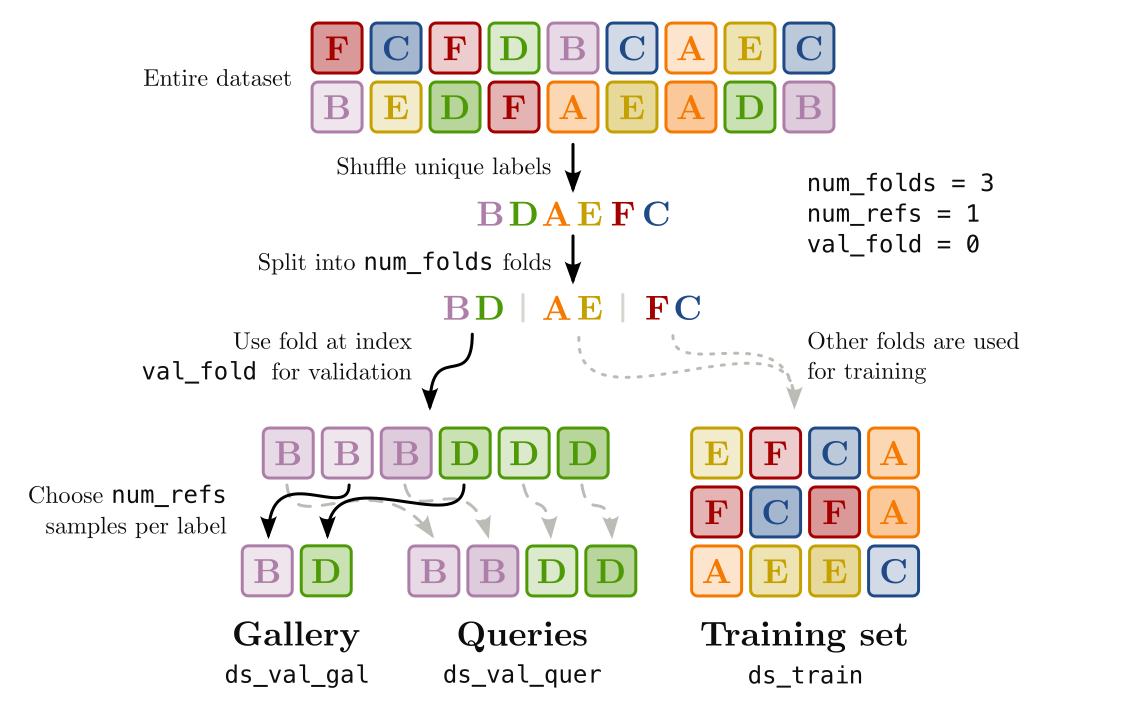
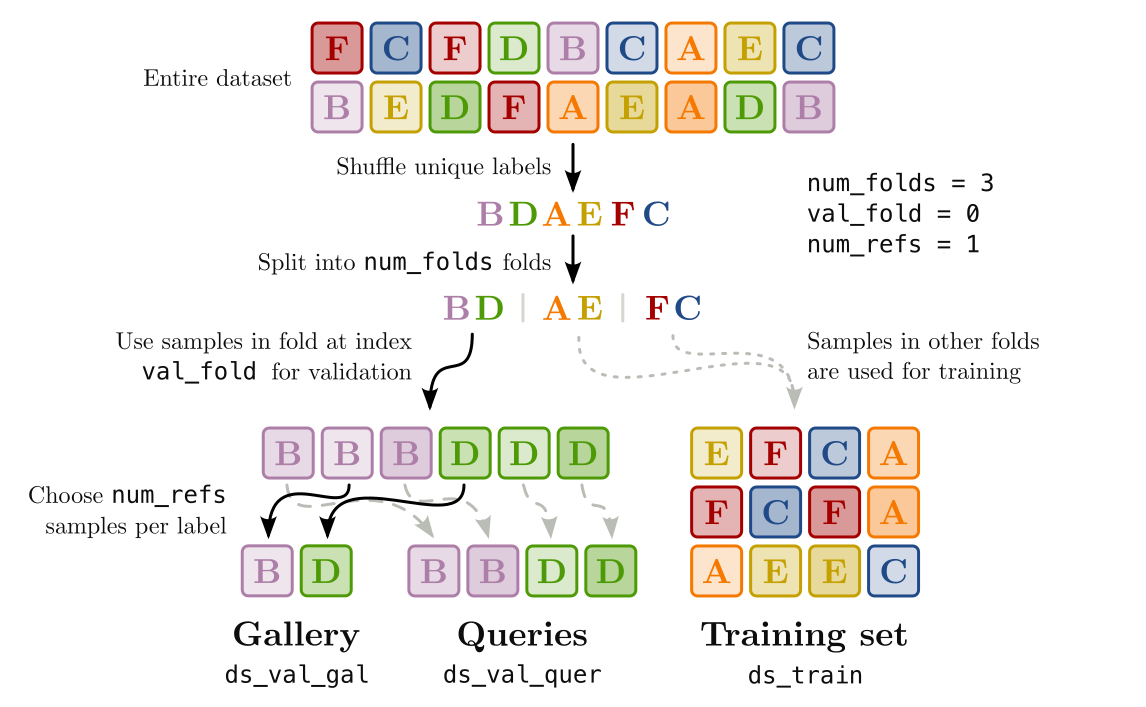
Update getting started

Changed region(s): [[0.7024, 0.4668, 0.9162, 0.5601], [0.7024, 0.2801, 0.8551, 0.3734], [0.0916, 0.4668, 0.2443, 0.4979]]

diff --git a/inid/eval/score_matrix.py b/inid/eval/score_matrix.py
@@ -51,8 +51,8 @@ def score_matrix(
             It should take two arguments: the model and the image batch.
 
     Returns:
-        The score matrix, the labels of the queries (rows) and the labels of
-        the gallery items (columns).
+        The score matrix, the labels of the gallery items (columns) and the
+        labels of the queries (rows).
     """
     assert not model.training
     model = model.to(device)
@@ -60,15 +60,9 @@ def score_matrix(
     gal_embeddings = []
     gal_labels = []
     for imgs, labels in tqdm(dl_gal, leave=False):
-        imgs = imgs.to(device)
-        labels = labels.to(device)
-        if get_embeddings_fn is None:
-            out = model(imgs)
-        else:
-            out = get_embeddings_fn(model, imgs)
-        assert len(labels) == len(out)
-        gal_embeddings.append(out)
-        gal_labels.append(labels)
+        _compute_and_append_embeddings(model, imgs, labels, device,
+                                       gal_embeddings, gal_labels,
+                                       get_embeddings_fn)
     gal_embeddings = torch.cat(gal_embeddings)
     gal_labels = torch.cat(gal_labels)
 
@@ -78,18 +72,35 @@ def score_matrix(
     scores = []
     quer_labels = []
     for imgs, labels in tqdm(dl_quer, leave=False):
-        imgs = imgs.to(device)
-        labels = labels.to(device)
-        if get_embeddings_fn is None:
-            q_embs = model(imgs)
-        else:
-            q_embs = get_embeddings_fn(model, imgs)
-        scores.append(torch.matmul(q_embs, gal_embeddings.T))
-        quer_labels.append(labels)
+        q_embs = []
+        _compute_and_append_embeddings(model, imgs, labels, device,
+                                       q_embs, quer_labels,
+                                       get_embeddings_fn)
+        scores.append(torch.matmul(q_embs[0], gal_embeddings.T))
     scores = torch.cat(scores)
     quer_labels = torch.cat(quer_labels)
 
-    return scores, quer_labels, gal_labels
+    return scores, gal_labels, quer_labels
+
+
+def _compute_and_append_embeddings(
+    model,
+    imgs,
+    labels,
+    device,
+    embedding_list,
+    label_list,
+    get_embeddings_fn,
+):
+    imgs = imgs.to(device)
+    labels = labels.to(device)
+    if get_embeddings_fn is None:
+        out = model(imgs)
+    else:
+        out = get_embeddings_fn(model, imgs)
+        assert len(labels) == len(out)
+        embedding_list.append(out)
+        label_list.append(labels)
 
 
 def sort_scores(

diff --git a/tests/eval/test_accuracy.py b/tests/eval/test_accuracy.py
@@ -23,7 +23,7 @@ def test_perfect_accuracy():
         0, 1, 2, 3
     ])
     exp_acc = 1.0
-    ret_acc = accuracy(scores, query_labels, gallery_labels)
+    ret_acc = accuracy(scores, gallery_labels, query_labels)
     assert exp_acc == ret_acc
 
 
@@ -48,7 +48,7 @@ def test_worst_accuracy():
         0, 1, 2, 3
     ])
     exp_acc = 0.0
-    ret_acc = accuracy(scores, query_labels, gallery_labels)
+    ret_acc = accuracy(scores, gallery_labels, query_labels)
     assert exp_acc == ret_acc
 
 
@@ -73,7 +73,7 @@ def test_midway_accuracy():
         0, 1, 2, 3
     ])
     exp_acc = 0.5
-    ret_acc = accuracy(scores, query_labels, gallery_labels)
+    ret_acc = accuracy(scores, gallery_labels, query_labels)
     assert exp_acc == ret_acc
 
 
@@ -98,5 +98,5 @@ def test_perfect_top_2_accuracy():
         0, 1, 2, 3
     ])
     exp_acc = 1.0
-    ret_acc = top_k_accuracy(scores, query_labels, gallery_labels, k=2)
+    ret_acc = top_k_accuracy(scores, gallery_labels, query_labels, k=2)
     assert exp_acc == ret_acc

diff --git a/inid/eval/pr_metrics.py b/inid/eval/pr_metrics.py
@@ -6,17 +6,17 @@ from torch import Tensor
 
 def pr_metrics(
     scores: Tensor,
-    query_labels: Tensor,
-    gallery_labels: Tensor
+    gallery_labels: Tensor,
+    query_labels: Tensor
 ) -> Dict[str, Union[List[Tensor], Tensor]]:
     """Computes the precision-recall curves and related metrics.
 
     Args:
         scores: The scores for each query (rows) and each gallery item
             (columns).
-        query_labels: The true label of each query (rows of ``scores``).
         gallery_labels: The labels of the items in the gallery (columns of
             ``scores``).
+        query_labels: The true label of each query (rows of ``scores``).
 
     Returns:
         A dictionary containing the metrics. The dict contains the following

diff --git a/inid/eval/accuracy.py b/inid/eval/accuracy.py
@@ -6,8 +6,8 @@ from .knn import top_k
 
 def accuracy(
     scores: Tensor,
-    query_labels: Tensor,
-    gallery_labels: Tensor
+    gallery_labels: Tensor,
+    query_labels: Tensor
 ) -> Tensor:
     """Computes the top-1 accuracy.
 
@@ -29,8 +29,8 @@ def accuracy(
 
 def top_k_accuracy(
     scores: Tensor,
-    query_labels: Tensor,
     gallery_labels: Tensor,
+    query_labels: Tensor,
     k: int
 ):
     """Computes the top-k accuracy.

diff --git a/tests/eval/test_pr_metrics.py b/tests/eval/test_pr_metrics.py
@@ -53,7 +53,7 @@ def test_best_pr_metrics():
         ]),
     }
 
-    ret = pr_metrics(scores, query_labels, gallery_labels)
+    ret = pr_metrics(scores, gallery_labels, query_labels)
     _assert_equal(exp, ret)
 
 
@@ -107,7 +107,7 @@ def test_bad_pr_metrics():
         ]),
     }
 
-    ret = pr_metrics(scores, query_labels, gallery_labels)
+    ret = pr_metrics(scores, gallery_labels, query_labels)
     _assert_equal(exp, ret)
 
 

diff --git a/tests/eval/test_hard_pos_neg_scores.py b/tests/eval/test_hard_pos_neg_scores.py
@@ -19,6 +19,6 @@ def test_hard_pos_neg_scores():
         'HardPosScores': torch.tensor([0.1, 0.3]),
         'HardNegScores': torch.tensor([0.2, 0.4]),
     }
-    ret = hard_pos_neg_scores(scores, query_labels, gallery_labels)
+    ret = hard_pos_neg_scores(scores, gallery_labels, query_labels)
     assert all(exp['HardPosScores'] == ret['HardPosScores'])
     assert all(exp['HardNegScores'] == ret['HardNegScores'])

diff --git a/tests/eval/test_score_matrix.py b/tests/eval/test_score_matrix.py
@@ -32,7 +32,7 @@ def test_get_score_matrix():
     model = torch.nn.Identity()
     model.eval()
 
-    ret_scores, ret_q_labels, ret_g_labels = get_score_matrix(
+    ret_scores, ret_g_labels, ret_q_labels = get_score_matrix(
         model,
         device='cpu',
         dl_gal=dl_gal,

diff --git a/inid/eval/hard_pos_neg_scores.py b/inid/eval/hard_pos_neg_scores.py
@@ -7,8 +7,8 @@ import math
 
 def hard_pos_neg_scores(
     scores: Tensor,
-    query_labels: Tensor,
     gallery_labels: Tensor,
+    query_labels: Tensor,
 ) -> Dict[str, Tensor]:
     """
     Computes the similarity scores between each query and the hardest negative

diff --git a/docs/guide/01-getting_started.md b/docs/guide/01-getting_started.md
@@ -27,9 +27,9 @@ It is entirely up to you how you structure your data and how you name the image 
 Let's say you have written your CSV file to `my_data.csv`. Then you can create training and validation datasets as follows:
 
 ```python
-from inid.data import get_train_val_datasets
+from inid.data import train_val_datasets
 
-ds_train, ds_val_gal, ds_val_quer = get_train_val_datasets(
+ds_train, ds_val_gal, ds_val_quer = train_val_datasets(
     'my_data.csv',      # Path to your CSV file
     label_key='label',  # The column containing the labels
     image_key='image',  # The column containing the image paths
@@ -38,8 +38,11 @@ ds_train, ds_val_gal, ds_val_quer = get_train_val_datasets(
     val_fold=0,         # Which fold to use as validation set
     fold_seed=42,       # The random seed for choosing the folds
 
-    num_refs=2,           # The number of references used in the gallery
+    num_refs=2,         # The number of references used in the gallery
     ref_seed=42,        # The random seed for selecting the references
+
+    tfm_train=None,     # The transformation pipeline for the training set
+    tfm_val=None,       # The transformation pipeline for the validation sets
 )
 ```
 
@@ -47,7 +50,8 @@ There are a couple of things going on here. Let's break them down:
 
 - The first three arguments are related to the CSV file that describes your dataset. You provide the path to the CSV file and the names of the columns that give the image paths and their corresponding labels.
 - The following three arguments (`num_folds`, `val_fold` and `fold_seed`) determine which data will be put in the training set and which data will be put in the validation set. InID shuffles the set of labels present in your dataset and divides them into `num_fold` approximately equal folds. With `val_fold`, you can choose which of these folds should be used for the validation dataset, and with `fold_seed` you can change the shuffling result. By fixing `num_folds` and `fold_seed` and letting `val_fold` range from `0` to `num_folds - 1`, you can easily perform K-fold cross validation. Read more about it [here](./03-kfold_cross_val). Note that different folds not only contain different samples, but also different *labels*. This is to reflect the ultimate goal of a recognition model, i.e., to recognize classes that were not used during training.
-- The final two arguments (`num_refs` and `ref_seed`) define how the validation samples are distributed among the gallery validation dataset (`ds_val_gal`) and the query validation dataset (`ds_val_quer`). During validation, the samples in the gallery are used as *references* for the respective classes and the query samples are compared with each of these references. From the resulting similarity scores, the model performance can be evaluated. For the gallery set, InID randomly selects `num_refs` samples (seeded by `ref_seed`) for each label in the validation dataset. The other samples are put into the query set.
+- The next two arguments (`num_refs` and `ref_seed`) define how the validation samples are distributed among the gallery validation dataset (`ds_val_gal`) and the query validation dataset (`ds_val_quer`). During validation, the samples in the gallery are used as *references* for the respective classes and the query samples are compared with each of these references. From the resulting similarity scores, the model performance can be evaluated. For the gallery set, InID randomly selects `num_refs` samples (seeded by `ref_seed`) for each label in the validation dataset. The other samples are put into the query set.
+- With the final arguments (`tfm_train` and `tfm_val`), you can pass in the image transformation pipeline to use for the training and the validation data, respectively. This could, for example, be a pipeline built with [TorchVision transforms](https://pytorch.org/vision/stable/transforms.html), but any other callable that takes in a single PIL Image and returns the transformed version should work fine. When the transforms are set to `None` (the default), no transforms will be applied to the images.
 
 The process of splitting the dataset is illustrated in the figure below. Each square represents a sample in the dataset and the letters indicate the class label.
 
@@ -79,7 +83,7 @@ The :class:`Recognizer<inid.model.Recognizer>` class implements the previously d
 ```python
 from inid.model import Recognizer
 
-model = Recognizer(
+recog_model = Recognizer(
     model_name='resnet50',
     num_classes=len(ds_train.unique_labels),
     weights='DEFAULT',
@@ -91,16 +95,96 @@ Let's discuss the arguments:
 
 ```{eval-rst}
 - With ``model_name``, you choose the architecture on which the :class:`Recognizer<inid.model.Recognizer>` should be based. **We support about 80 different architectures** from the `models implemented in TorchVision <https://pytorch.org/vision/main/models.html>`_: classics like AlexNet, GoogLeNet, VGG, Inception, ResNet, but also more recent models like ResNeXt, EfficientNet, and even transformer-based models like ViT and SwinTransformer. For a full list of the supported architectures, see :const:`inid.model.SUPPORTED_MODELS`.
-- ``num_classes`` tells the model how much output neurons the classifier (used for training) should have. If you created a training dataset ``ds_train`` with :func:`inid.data.get_train_val_datasets`, as we did above, you can just pass in ``len(ds_train.unique_labels)``.
+- ``num_classes`` tells the model how much output neurons the classifier (used for training) should have. If you created a training dataset ``ds_train`` with :func:`inid.data.train_val_datasets`, as we did above, you can just pass in ``len(ds_train.unique_labels)``.
 - With the ``weights`` argument, you define the pretrained weights to load into the model, if any. This can be any of the weights defined for your chosen model in the `Multi-weight support API <https://pytorch.org/blog/introducing-torchvision-new-multi-weight-support-api/>`_ of TorchVision.
 - Finally, with the ``bias`` argument, you can choose to turn on the bias. We suggest to keep it off, however (the default).
 ```
 
 ## Evaluating predictions
 
+With the training dataset and the model defined, we can go ahead and start training. InID is unopinionated on how you wish to train your model. Whether you like to write your own training loop in plain PyTorch or prefer to wrap everything with a framework like [PyTorch Lightning](https://lightning.ai/docs/pytorch/latest): that's up to you!
+
+
+```{eval-rst}
+Whatever training methodology you choose, at some point, you'll want to measure how well your model performs on data outside of the training set. For this, InID provides multiple utilities. We have already seen the first one, i.e., :func:`inid.data.train_val_datasets`, which returns not only a training dataset, but also a *gallery* and a *query* set that can be used for evaluation. The idea is that we classify the query samples by comparing their embeddings with the embeddings the model computes for the gallery samples.
+
+The classification of the query samples happens by computing a pairwise cosine similarity matrix between each query embedding and each gallery embedding. To do this, you can use the function :func:`inid.eval.score_matrix`.
+
+To save runtime, :func:`inid.eval.score_matrix` expects a `PyTorch DataLoader <https://pytorch.org/docs/stable/data.html>`_ for both the gallery and the query datasets. So, somewhere in your code, you'll first need to do something like:
+```
+
+```python
+from torch.utils.data import DataLoader
+
+dl_val_gal = DataLoader(
+    ds_val_gal,
+    batch_size=32,
+    shuffle=False,
+    num_workers=8
+)
+
+dl_val_quer = DataLoader(
+    ds_val_quer,
+    batch_size=32,
+    shuffle=False,
+    num_workers=8
+)
+```
+
+Then, later, somewhere in your validation loop, you can run:
+
+```python
+from inid.eval import score_matrix
+
+scores, gal_labels, quer_labels = score_matrix(
+    model=recog_model,
+    device=device,
+    dl_gal=dl_val_gal,
+    dl_quer=dl_val_quer
+)
+```
+
+There are some extra optional arguments, but we'll skip these for now. 
+
+Some notes on the returned variables:
+
+- `scores[i,j]` contains the cosine similarity between query sample `i` and gallery sample `j`.
+- `gal_labels[j]` contains the label of the gallery sample at index `j`.
+- `quer_labels[i]` contains the true label of the query sample at index `i`.
+
+With these scores and labels, we can go ahead and compute some informative metrics:
+
+```python
+from inid.eval import accuracy, top_k_accuracy, hard_pos_neg_scores, pr_metrics
+
+# The top-1 accuracy
+acc = accuracy(scores, quer_labels, gal_labels)
+
+# The top-5 accuracy
+top5_acc = top_k_accuracy(scores, quer_labels, gal_labels, k=5)
+
+# PR curves, APs, mAP,...
+prs = pr_metrics(scores, quer_labels, gal_labels)
+
+# Scores for the hardest positives and negatives
+hpn_scores = hard_pos_neg_scores(scores, quer_labels, gal_labels)
+```
+
+For more information about these metrics, see [the guide on metrics](./02-metrics) and the corresponding docs:
+
+```{eval-rst}
+.. automodule::
+   inid.eval
+
+.. autosummary::
+   :nosignatures:
+
+   accuracy
+   hard_pos_neg_scores
+   pr_metrics
+   top_k_accuracy
+```
 
 ## Some extra utilities
 
-- `ThreeCrop`
-- `RunningExtrema`
-- `avg_ref_embs`
+InID provides some extra utilities that might come in useful, such as a data transformation that might significantly improve your model performance without any extra training. We discuss these [over here](./04-utils).

diff --git a/docs/guide/04-utils.md b/docs/guide/04-utils.md
@@ -1,0 +1,19 @@
+# Extra utilities
+
+## Average reference embeddings
+
+```{eval-rst}
+:func:`inid.utils.avg_ref_embs`
+```
+
+## Three-cropping
+
+```{eval-rst}
+:func:`inid.utils.three_crop`
+```
+
+## Running Extrema
+
+```{eval-rst}
+:class:`inid.utils.RunningExtrema`
+```

diff --git a/docs/guide/02-metrics.md b/docs/guide/02-metrics.md
@@ -1,0 +1,7 @@
+# Using and interpreting the metrics
+
+## Accuracy and top-k accuracy
+
+## Hard positive and negative scores
+
+## Metrics based on Precision and Recall
